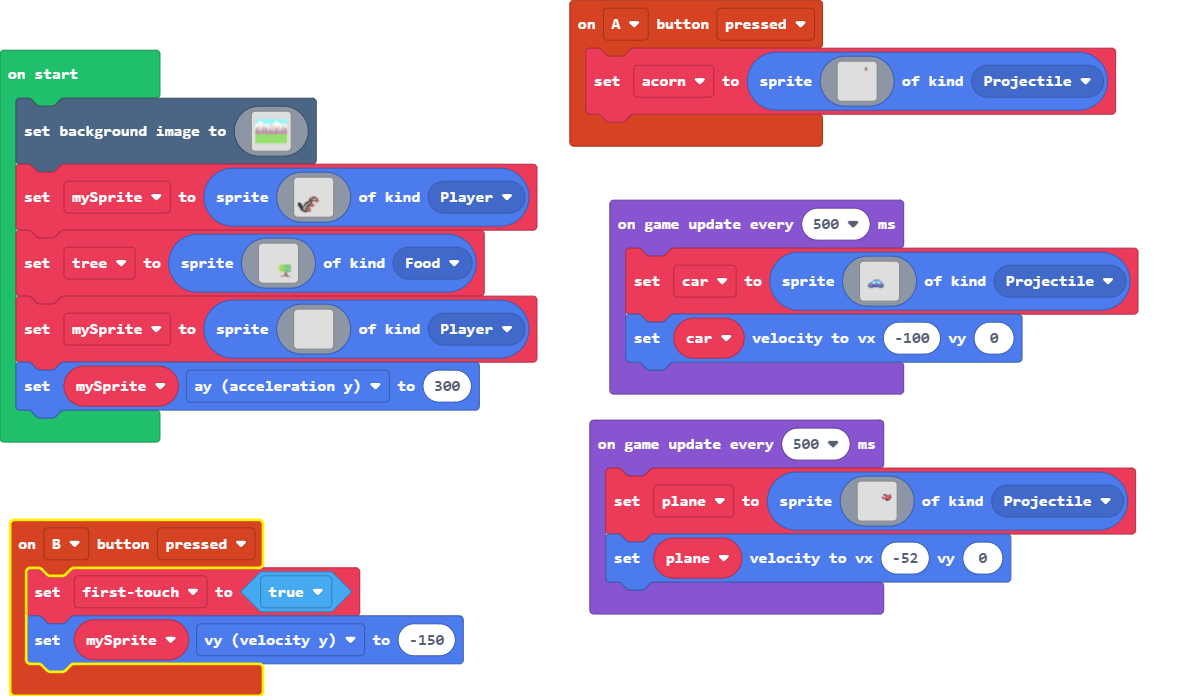
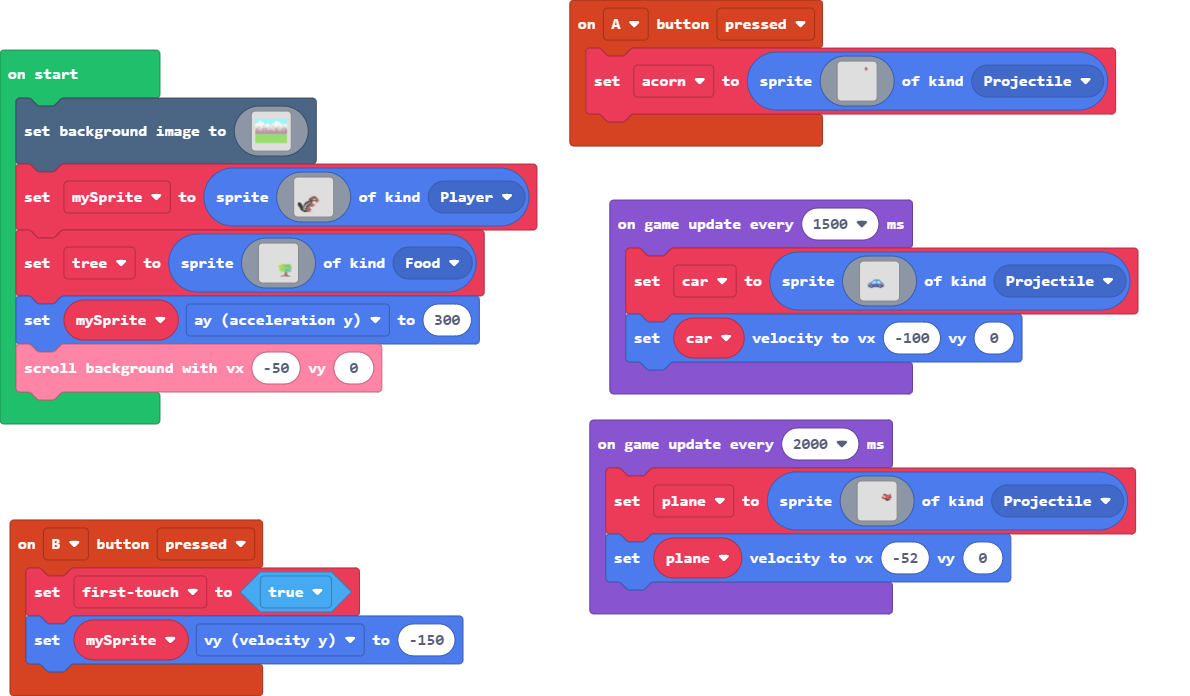
Update pxt.json, main.blocks, main.ts

diff --git a/main.ts b/main.ts
@@ -86,8 +86,8 @@ controller.A.onEvent(ControllerButtonEvent.Pressed, function () {
         ................................................................................
         `, SpriteKind.Projectile)
 })
-let plane: Sprite = null
 let car: Sprite = null
+let plane: Sprite = null
 let acorn: Sprite = null
 let firsttouch = false
 let mySprite: Sprite = null
@@ -296,30 +296,9 @@ let tree = sprites.create(img`
     ................................................................................
     ................................................................................
     `, SpriteKind.Food)
-mySprite = sprites.create(img`
-    . . . . . . . . . . . . . . . . 
-    . . . . . . . . . . . . . . . . 
-    . . . . . . . . . . . . . . . . 
-    . . . . . . . . . . . . . . . . 
-    . . . . . . . . . . . . . . . . 
-    . . . . . . . . . . . . . . . . 
-    . . . . . . . . . . . . . . . . 
-    . . . . . . . . . . . . . . . . 
-    . . . . . . . . . . . . . . . . 
-    . . . . . . . . . . . . . . . . 
-    . . . . . . . . . . . . . . . . 
-    . . . . . . . . . . . . . . . . 
-    . . . . . . . . . . . . . . . . 
-    . . . . . . . . . . . . . . . . 
-    . . . . . . . . . . . . . . . . 
-    . . . . . . . . . . . . . . . . 
-    `, SpriteKind.Player)
 mySprite.ay = 300
-game.onUpdateInterval(500, function () {
-    car = sprites.create(assets.image`Car`, SpriteKind.Projectile)
-    car.setVelocity(-100, 0)
-})
-game.onUpdateInterval(500, function () {
+scroller.scrollBackgroundWithSpeed(-50, 0)
+game.onUpdateInterval(2000, function () {
     plane = sprites.create(img`
         ................................................................................
         ................................................................................
@@ -403,4 +382,8 @@ game.onUpdateInterval(500, function () {
         ................................................................................
         `, SpriteKind.Projectile)
     plane.setVelocity(-52, 0)
+})
+game.onUpdateInterval(1500, function () {
+    car = sprites.create(assets.image`Car`, SpriteKind.Projectile)
+    car.setVelocity(-100, 0)
 })
